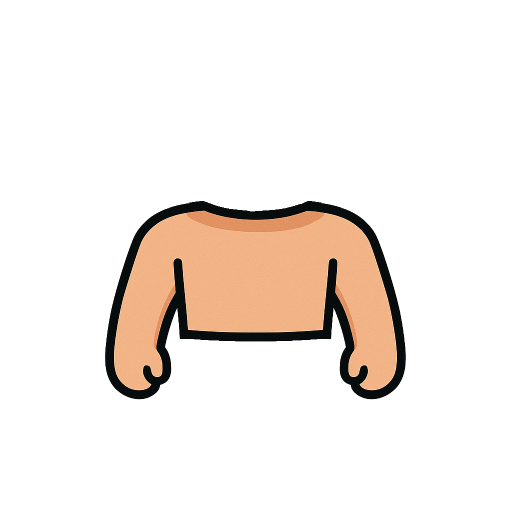
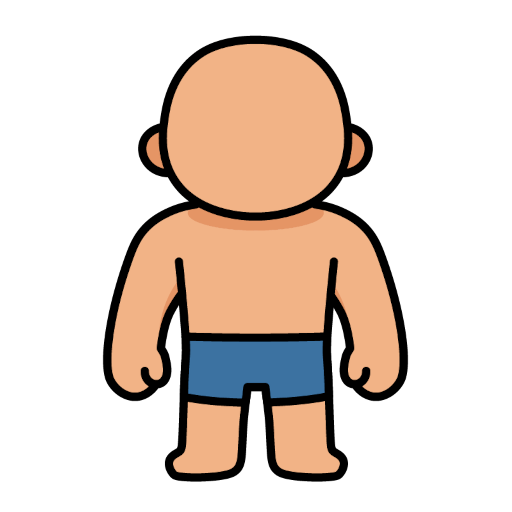
refactor: combine head, body and legs to single image

Changed region(s): [[0.1875, 0.4375, 0.8125, 0.9688], [0.25, 0.0625, 0.75, 0.4375]]

diff --git a/src/UI/pages/Menu/src/Home/src/sprites/hooks/useGetSpriteByAge.tsx b/src/UI/pages/Menu/src/Home/src/sprites/hooks/useGetSpriteByAge.tsx
@@ -23,9 +23,7 @@ export function useGetSpriteByAge() {
       [SpriteEras.infant]: (
         <Infant
           size={size}
-          legs={spriteVariants.legs}
           body={spriteVariants.body}
-          head={spriteVariants.head}
           eyes={spriteVariants.eyes}
           mouth={spriteVariants.mouth}
           style={style}
@@ -34,9 +32,7 @@ export function useGetSpriteByAge() {
       [SpriteEras.child]: (
         <Adult
           size={size}
-          legs={spriteVariants.legs}
           body={spriteVariants.body}
-          head={spriteVariants.head}
           eyes={spriteVariants.eyes}
           mouth={spriteVariants.mouth}
           hair={spriteVariants.hair}
@@ -46,9 +42,7 @@ export function useGetSpriteByAge() {
       [SpriteEras.preTeen]: (
         <Adult
           size={size}
-          legs={spriteVariants.legs}
           body={spriteVariants.body}
-          head={spriteVariants.head}
           eyes={spriteVariants.eyes}
           mouth={spriteVariants.mouth}
           hair={spriteVariants.hair}
@@ -58,9 +52,7 @@ export function useGetSpriteByAge() {
       [SpriteEras.teenager]: (
         <Adult
           size={size}
-          legs={spriteVariants.legs}
           body={spriteVariants.body}
-          head={spriteVariants.head}
           eyes={spriteVariants.eyes}
           mouth={spriteVariants.mouth}
           hair={spriteVariants.hair}
@@ -70,9 +62,7 @@ export function useGetSpriteByAge() {
       [SpriteEras.adult]: (
         <Adult
           size={size}
-          legs={spriteVariants.legs}
           body={spriteVariants.body}
-          head={spriteVariants.head}
           eyes={spriteVariants.eyes}
           mouth={spriteVariants.mouth}
           hair={spriteVariants.hair}
@@ -82,9 +72,7 @@ export function useGetSpriteByAge() {
       [SpriteEras.elder]: (
         <Adult
           size={size}
-          legs={spriteVariants.legs}
           body={spriteVariants.body}
-          head={spriteVariants.head}
           eyes={spriteVariants.eyes}
           mouth={spriteVariants.mouth}
           hair={spriteVariants.hair}

diff --git a/src/UI/pages/Menu/src/Home/src/sprites/characters/Adult/Adult.tsx b/src/UI/pages/Menu/src/Home/src/sprites/characters/Adult/Adult.tsx
@@ -10,7 +10,7 @@ type AdultProps = {
 
 const assetPath = '../../../../../../../../../assets/images/character/adult/';
 
-function Adult({size, legs, body, head, eyes, mouth, hair, style}: AdultProps) {
+function Adult({size, body, eyes, mouth, hair, style}: AdultProps) {
   const dynamicStyles = useMemo(
     () =>
       StyleSheet.create({
@@ -23,22 +23,15 @@ function Adult({size, legs, body, head, eyes, mouth, hair, style}: AdultProps) {
     [size, style],
   );
 
-  const legsVariants = {
-    light: require(assetPath + 'legs/legs.png'),
-  };
   const bodyVariants = {
     light: require(assetPath + 'body/body_1.png'),
-    dark: require(assetPath + 'body/body_2.png'),
-  };
-  const headVariants = {
-    light: require(assetPath + 'head/head_1.png'),
-    dark: require(assetPath + 'head/head_2.png'),
+    dark: require(assetPath + 'body/body_1.png'),
   };
   const eyesVariants = {
-    black: require(assetPath + 'eyes/eyes.png'),
+    black: require(assetPath + 'eyes/eyes_1.png'),
   };
   const mouthVariants = {
-    smile: require(assetPath + 'mouth/mouth.png'),
+    smile: require(assetPath + 'mouth/mouth_1.png'),
   };
   const hairVariants = {
     average: require(assetPath + 'hair/hair_1.png'),
@@ -46,9 +39,7 @@ function Adult({size, legs, body, head, eyes, mouth, hair, style}: AdultProps) {
 
   return (
     <View style={dynamicStyles.box}>
-      {legs && <Image source={legsVariants[legs]} style={styles.image} />}
-      {body && <Image source={bodyVariants[body]} style={styles.image} />}
-      <Image source={headVariants[head]} style={styles.image} />
+      <Image source={bodyVariants[body]} style={styles.image} />
       <Image source={eyesVariants[eyes]} style={styles.image} />
       <Image source={mouthVariants[mouth]} style={styles.image} />
       {hair && <Image source={hairVariants[hair]} style={styles.image} />}

diff --git a/src/UI/pages/Menu/src/Home/src/sprites/characters/Infant/Infant.tsx b/src/UI/pages/Menu/src/Home/src/sprites/characters/Infant/Infant.tsx
@@ -10,7 +10,7 @@ type InfantProps = {
 
 const assetPath = '../../../../../../../../../assets/images/character/infant/';
 
-function Infant({size, legs, body, head, eyes, mouth, style}: InfantProps) {
+function Infant({size, body, eyes, mouth, style}: InfantProps) {
   const dynamicStyles = useMemo(
     () =>
       StyleSheet.create({
@@ -23,16 +23,9 @@ function Infant({size, legs, body, head, eyes, mouth, style}: InfantProps) {
     [size],
   );
 
-  const legsVariants = {
-    light: require(assetPath + 'legs/legs_1.png'),
-  };
   const bodyVariants = {
     light: require(assetPath + 'body/body_1.png'),
     dark: require(assetPath + 'body/body_1.png'),
-  };
-  const headVariants = {
-    light: require(assetPath + 'head/head_1.png'),
-    dark: require(assetPath + 'head/head_1.png'),
   };
   const eyesVariants = {
     black: require(assetPath + 'eyes/eyes_1.png'),
@@ -43,9 +36,7 @@ function Infant({size, legs, body, head, eyes, mouth, style}: InfantProps) {
 
   return (
     <View style={[dynamicStyles.box, style]}>
-      {legs && <Image source={legsVariants[legs]} style={styles.image} />}
-      {body && <Image source={bodyVariants[body]} style={styles.image} />}
-      <Image source={headVariants[head]} style={styles.image} />
+      <Image source={bodyVariants[body]} style={styles.image} />
       <Image source={eyesVariants[eyes]} style={styles.image} />
       <Image source={mouthVariants[mouth]} style={styles.image} />
     </View>

diff --git a/src/UI/pages/Menu/src/Home/src/sprites/hooks/useSprite.tsx b/src/UI/pages/Menu/src/Home/src/sprites/hooks/useSprite.tsx
@@ -38,9 +38,7 @@ export function useSprite() {
       playerStore.age,
       size,
       {
-        legs: playerStore.sprite.legs,
         body: playerStore.sprite.body,
-        head: playerStore.sprite.head,
         eyes: playerStore.sprite.eyes,
         mouth: playerStore.sprite.mouth,
         hair: playerStore.sprite.hair,
@@ -50,9 +48,7 @@ export function useSprite() {
     [SpriteName.mother]: motherPerson ? (
       <Adult
         size={size}
-        legs={motherPerson.sprite.legs}
         body={motherPerson.sprite.body}
-        head={motherPerson.sprite.head}
         eyes={motherPerson.sprite.eyes}
         mouth={motherPerson.sprite.mouth}
         style={style}
@@ -63,9 +59,7 @@ export function useSprite() {
     [SpriteName.father]: fatherPerson ? (
       <Adult
         size={size}
-        legs={fatherPerson.sprite.legs}
         body={fatherPerson.sprite.body}
-        head={fatherPerson.sprite.head}
         eyes={fatherPerson.sprite.eyes}
         mouth={fatherPerson.sprite.mouth}
         hair={fatherPerson.sprite.hair}

diff --git a/src/UI/pages/Menu/src/StartNewLife/src/useCreateCharacters.tsx b/src/UI/pages/Menu/src/StartNewLife/src/useCreateCharacters.tsx
@@ -21,9 +21,7 @@ export function useCreateCharacters() {
   const {getText} = useLocalizeText();
 
   const playerSprite = {
-    legs: 'light',
     body: 'light',
-    head: 'light',
     eyes: 'black',
     mouth: 'smile',
   } as const;
@@ -64,9 +62,7 @@ export function useCreateCharacters() {
         health: 80,
       },
       sprite: {
-        legs: 'light',
         body: 'light',
-        head: 'light',
         eyes: 'black',
         mouth: 'smile',
       },
@@ -90,9 +86,7 @@ export function useCreateCharacters() {
         health: 80,
       },
       sprite: {
-        legs: 'light',
         body: 'light',
-        head: 'light',
         eyes: 'black',
         mouth: 'smile',
         hair: 'average',
@@ -121,9 +115,7 @@ export function useCreateCharacters() {
         health: 80,
       },
       sprite: {
-        legs: 'light',
         body: 'light',
-        head: 'light',
         eyes: 'black',
         mouth: 'smile',
         hair: 'average',

diff --git a/src/UI/pages/Menu/src/Home/src/sections/visualization/Visualization/Visualization.tsx b/src/UI/pages/Menu/src/Home/src/sections/visualization/Visualization/Visualization.tsx
@@ -12,7 +12,7 @@ function Visualization() {
   const car = getSprite(SpriteName.car, 180, {top: 5});
   const aircraft = getSprite(SpriteName.aircraft, 160, {bottom: 0, right: 10});
 
-  const back = require('../../../../../../../../../assets/images/background/sun2.jpg');
+  const back = require('../../../../../../../../../assets/images/background/sun.jpg');
 
   return (
     <View style={styles.box}>

diff --git a/src/types/people.ts b/src/types/people.ts
@@ -12,9 +12,7 @@ import {Chances, ObjectRecord} from './common';
 import {Icon} from './icons';
 
 export type CommonSpriteVariants = {
-  legs: 'light';
   body: 'light' | 'dark';
-  head: 'light' | 'dark';
   eyes: 'black';
   mouth: 'smile';
   hair?: 'average';
